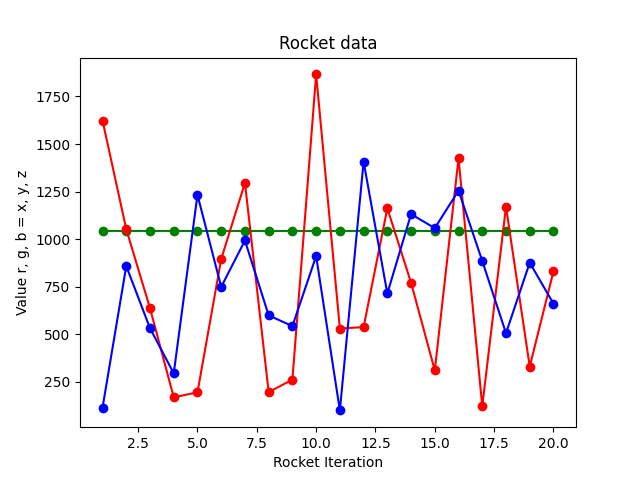
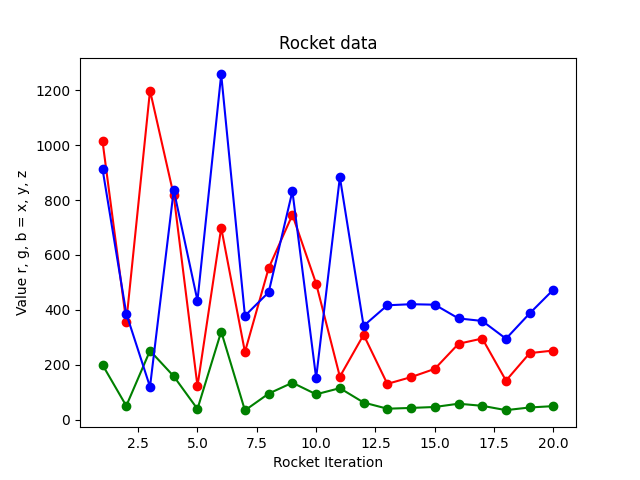
fixed z angle calculation, graphics are slightly misleading. y velocity only accounted for in x velocity graph

diff --git a/rocket_versions/rocketv4/simulation.py b/rocket_versions/rocketv4/simulation.py
@@ -1,10 +1,12 @@
 import pygame
-from physics import all_value_names
+from physics import bounds
+import math
 
 white = (255, 255, 255)
 light_green = (100, 255, 100)
 blue = (100, 100, 255)
 black = (0, 0, 0)
+orange = (252, 115, 3)  # fuel color
 X = 1500
 Y = 1000
 pygame.init()
@@ -12,32 +14,107 @@ display = pygame.display.set_mode((X, Y))
 pygame.display.set_caption('Rocket GUI')
 font = pygame.font.Font('freesansbold.ttf', 32)
 clock = pygame.time.Clock()
-CLOCK_SPEED = 60  # frames per second
+CLOCK_SPEED = 30  # frames per second
 
 x_pixels = set()
 z_pixels = set()
 
 
 def handle_display(state, iteration):
+    LINE_LENGTH = 50
+
     display.fill(black)
-    y = 0
-    base_x = 250
-    x_change_per_letter = 8
-    for name in all_value_names:
-        new_x = base_x - x_change_per_letter * len(name)
-        text_str = name + ":" + str(round(state[name], 3))
-        text = font.render(text_str, True, white, black)
-        text_rect = text.get_rect()
-        y += 40
-        text_rect.center = (new_x, y)
-        display.blit(text, text_rect)
 
     # iteration
     iteration_str = 'Iteration: ' + str(iteration)
     iteration_text = font.render(iteration_str, True, white, black)
     iteration_text_rect = iteration_text.get_rect()
-    iteration_text_rect.center = (180, 40*(len(all_value_names)+1))
+    iteration_text_rect.center = (100, LINE_LENGTH)
     display.blit(iteration_text, iteration_text_rect)
+
+    # velocity in x:
+    vel_x_text = font.render('x velocity:', True, white, black)
+    vel_x_text_rect = vel_x_text.get_rect()
+    vel_x_text_rect.center = (300, LINE_LENGTH)
+    display.blit(vel_x_text, vel_x_text_rect)
+    vel_center = (450, LINE_LENGTH)
+    vel_line_length = abs(state['velocity']/bounds['max_velocity']) * LINE_LENGTH
+    angle = state['x_direction'] * 2 * math.pi
+    vel_x_component = -1*vel_line_length * math.cos(angle) + vel_center[0]
+    vel_y_component = -1*vel_line_length * math.sin(angle) + vel_center[1]
+    vel_end = (vel_x_component, vel_y_component)
+    pygame.draw.circle(display, white, vel_center, LINE_LENGTH, width=1)
+    pygame.draw.line(display, white, vel_center, vel_end)
+
+    # velocity in z:
+    vel_z_text = font.render('z velocity:', True, white, black)
+    vel_z_text_rect = vel_z_text.get_rect()
+    vel_z_text_rect.center = (670, LINE_LENGTH)
+    display.blit(vel_z_text, vel_z_text_rect)
+    vel_center = (820, LINE_LENGTH)
+    angle = state['z_direction'] * 2 * math.pi
+    vel_x_component = -1 * vel_line_length * math.cos(angle) + vel_center[0]
+    vel_y_component = -1 * vel_line_length * math.sin(angle) + vel_center[1]
+    vel_end = (vel_x_component, vel_y_component)
+    pygame.draw.circle(display, white, vel_center, LINE_LENGTH, width=1)
+    pygame.draw.line(display, white, vel_center, vel_end)
+
+    # acceleration in x:
+    acc_x_text = font.render('x acceleration:', True, white, black)
+    acc_x_text_rect = acc_x_text.get_rect()
+    acc_x_text_rect.center = (270, 4*LINE_LENGTH)
+    display.blit(acc_x_text, acc_x_text_rect)
+    acc_center = (450, 4*LINE_LENGTH)
+    acc_line_length = abs(state['acceleration']/bounds['max_acceleration']) * LINE_LENGTH
+    angle = state['x_tilt'] * 2 * math.pi
+    acc_x_component = -1 * acc_line_length * math.cos(angle) + acc_center[0]
+    acc_y_component = -1 * acc_line_length * math.sin(angle) + acc_center[1]
+    acc_end = (acc_x_component, acc_y_component)
+    pygame.draw.circle(display, white, acc_center, LINE_LENGTH, width=1)
+    pygame.draw.line(display, white, acc_center, acc_end)
+
+    # acceleration in z:
+    acc_z_text = font.render('z acceleration:', True, white, black)
+    acc_z_text_rect = acc_z_text.get_rect()
+    acc_z_text_rect.center = (640, 4*LINE_LENGTH)
+    display.blit(acc_z_text, acc_z_text_rect)
+    acc_center = (820, 4*LINE_LENGTH)
+    angle = state['z_tilt'] * 2 * math.pi
+    acc_x_component = -1 * acc_line_length * math.cos(angle) + acc_center[0]
+    acc_y_component = -1 * acc_line_length * math.sin(angle) + acc_center[1]
+    acc_end = (acc_x_component, acc_y_component)
+    pygame.draw.circle(display, white, acc_center, LINE_LENGTH, width=1)
+    pygame.draw.line(display, white, acc_center, acc_end)
+
+    # wind
+    wind_text = font.render('wind:', True, white, black)
+    wind_text_rect = wind_text.get_rect()
+    wind_text_rect.center = (1000, LINE_LENGTH)
+    display.blit(wind_text, wind_text_rect)
+    wind_center = (1100, LINE_LENGTH)
+    wind_line_length = abs(state['wind']) * LINE_LENGTH
+    angle = state['wind_direction'] * 2 * math.pi
+    wind_x_component = -1 * wind_line_length * math.cos(angle) + wind_center[0]
+    wind_y_component = -1 * wind_line_length * math.sin(angle) + wind_center[1]
+    wind_end = (wind_x_component, wind_y_component)
+    pygame.draw.circle(display, white, wind_center, LINE_LENGTH, width=1)
+    pygame.draw.line(display, white, wind_center, wind_end)
+
+    # fuel
+    fuel_text = font.render('fuel:', True, white, black)
+    fuel_text_rect = fuel_text.get_rect()
+    fuel_text_rect.center = (1000, 4*LINE_LENGTH)
+    display.blit(fuel_text, fuel_text_rect)
+    fuel_center = (1100, 3*LINE_LENGTH)
+    fuel_size = (LINE_LENGTH/2, LINE_LENGTH*2)
+    fuel_ratio = state['fuel']/bounds['max_fuel']
+    fuel_height = int(2*LINE_LENGTH * fuel_ratio)
+    actual_size = (LINE_LENGTH/2, fuel_height)
+    outline_rect = pygame.Rect(fuel_center[0], fuel_center[1], fuel_size[0], fuel_size[1])
+    starting_y = fuel_center[1] + (1 - fuel_ratio) * fuel_size[1]
+    actual_rect = pygame.Rect(fuel_center[0], starting_y, actual_size[0], actual_size[1])
+    pygame.draw.rect(display, white, outline_rect, width=1)
+    pygame.draw.rect(display, orange, actual_rect)
 
     for pixel in x_pixels:
         display.set_at(pixel, light_green)
@@ -77,9 +154,9 @@ def launch(rocket, iteration):
 def add_pixels(state):
     global x_pixels, z_pixels
 
-    x = int((X/2)) - int(state['x'] / 20)  # X/2 to get the first half of the screen
-    z = X - int(state['z'] / 20)   # not dividing to get 2nd half of the screen
-    y = Y - int(state['y'])  # this is / by nothing because y is very low
+    x = int((X/2)) - int(state['x'] / 100)  # X/2 to get the first half of the screen
+    z = X - int(state['z'] / 100)   # not dividing to get 2nd half of the screen
+    y = Y - int(state['y'] / 5)
     x_pixels.add((x, y))
     z_pixels.add((z, y))
 

diff --git a/rocket_versions/rocketv4/physics.py b/rocket_versions/rocketv4/physics.py
@@ -7,8 +7,8 @@ from perlin_noise import PerlinNoiseFactory
 # if we want meters per second we must define that 1 frame is 1 second
 FORCE_FROM_THRUST = 800  # how much the acceleration increases from thrust, measured in N
 THRUST_PER_UNIT_FUEL = 1  # how much thrust from 1 unit of fuel
-TILT_RATIO = 0  # how much the rocket tilts in frame
-FORCE_FROM_WIND = 1  # multiplied by wind (value from 0-100), measured in N
+TILT_RATIO = 0.5  # how much the rocket tilts in frame
+FORCE_FROM_WIND = 100  # multiplied by wind (value from 0-1), measured in N
 MASS = 20  # kg
 ACCELERATION_FROM_GRAVITY = -9.8
 FORCE_FROM_GRAVITY = MASS * ACCELERATION_FROM_GRAVITY  # currently -196N
@@ -19,18 +19,20 @@ CROSS_SECTIONAL_AREA = math.pi * RADIUS**2  # this is measured in meters
 AIR_DENSITY = 1.225  # kg/m^3
 
 # -------------------------------classification-------------------------------
-# current max velocity is 136m/s
+# terminal velocity moving straight down is:
+# math.sqrt((-2*FORCE_FROM_GRAVITY) / (AIR_DENSITY*CROSS_SECTIONAL_AREA*DRAG_COEFFICIENT))
+# which is a positive number. if the rocket is moving downwards, its max velocity_y cannot exceed this
 bounds = {'max_acceleration': 100,  # this is also used for preprocessing
-          'max_velocity': math.sqrt((-2*FORCE_FROM_GRAVITY) / (AIR_DENSITY*CROSS_SECTIONAL_AREA*DRAG_COEFFICIENT)),
+          'max_velocity': 300,
           'max_y': 10000,
           'min_y': 0,
           'max_fuel': 10,
           'max_time': 100,
-          'max_x': 10000,
+          'max_x': 100000,
           'min_x': 0,
-          'max_z': 10000,
+          'max_z': 100000,
           'min_z': 0,
-          'max_wind': 100,
+          'max_wind': FORCE_FROM_WIND,
           'min_wind': 0}
 
 all_value_names = ['acceleration', 'velocity', 'y', 'fuel', 'time', 'x', 'x_tilt', 'x_direction', 'z', 'z_tilt',
@@ -47,17 +49,26 @@ angles = ['x_tilt', 'x_direction', 'z_tilt', 'z_direction', 'wind_direction']
 # -------------------------------environment constants-------------------------------
 wind_mags = []
 wind_angles = []
+rt2 = math.sqrt(2)
 
 
 def init_env():
     # i might want to transform the curves to better fit a realistic environment
     global wind_mags, wind_angles
-    mags_noise_generator = PerlinNoiseFactory(1, octaves=2, unbias=True)
-    angle_noise_generator = PerlinNoiseFactory(1, octaves=3, unbias=True)
-    div = 10
+    x_noise_generator = PerlinNoiseFactory(1, octaves=2, unbias=True)
+    z_noise_generator = PerlinNoiseFactory(1, octaves=3, unbias=True)
+    div = 100
     # 50* instead of 100/2*
-    wind_mags = [50*(mags_noise_generator(i/div)+1) for i in range(bounds['max_time'])]
-    wind_angles = [(angle_noise_generator(i/div)+1)/2 for i in range(bounds['max_time'])]
+    wind_x = [(x_noise_generator(i/div))/rt2 for i in range(bounds['max_time'])]
+    wind_z = [(z_noise_generator(i/div))/rt2 for i in range(bounds['max_time'])]
+    wind_mags = []
+    wind_angles = []
+    for i in range(len(wind_x)):
+        magnitude = math.sqrt(wind_x[i]**2 + wind_z[i]**2)
+        angle = math.atan2(wind_z[i], wind_x[i]) / (2*math.pi)
+        angle %= 1
+        wind_mags.append(magnitude)
+        wind_angles.append(angle)
 
 
 def apply_physics(state, actions):
@@ -99,8 +110,8 @@ def apply_physics(state, actions):
     force_x_component = force_xy_projection * math.cos(force_angle_x_projection)
 
     # calculating wind components
-    wind_z_component = math.cos(wind_angle)
-    wind_x_component = math.sin(wind_angle)
+    wind_z_component = math.sin(wind_angle)
+    wind_x_component = math.cos(wind_angle)
     wind_z = FORCE_FROM_WIND * state['wind'] * wind_z_component
     wind_x = FORCE_FROM_WIND * state['wind'] * wind_x_component
 
@@ -121,7 +132,6 @@ def apply_physics(state, actions):
 
     # calculating and storing new magnitude
     cur_acceleration = math.sqrt((acceleration_x ** 2 + acceleration_y ** 2 + acceleration_z ** 2))
-    cur_acceleration *= np.sign(acceleration_y)
     cur_acceleration = round(cur_acceleration, 10)
     state['acceleration'] = cur_acceleration
 
@@ -150,17 +160,21 @@ def apply_physics(state, actions):
 
     # calculating and storing new velocity magnitude
     cur_velocity = math.sqrt((velocity_x ** 2 + velocity_y ** 2 + velocity_z ** 2))
-    cur_velocity *= np.sign(velocity_y)
     cur_velocity = round(cur_velocity, 10)
     state['velocity'] = cur_velocity
 
     # finding x and z angles
+    print('x:', velocity_x)
+    print('y:', velocity_y)
+    print('z:', velocity_z)
     vel_angle_x = math.atan2(velocity_y, velocity_x) / (2 * math.pi)
     xy_projection_magnitude = math.sqrt(velocity_y ** 2 + velocity_x ** 2)
-    xy_projection_magnitude *= np.sign(velocity_y)
     vel_angle_z = math.atan2(xy_projection_magnitude, velocity_z) / (2 * math.pi)
     state['x_direction'] = vel_angle_x
     state['z_direction'] = vel_angle_z
+    print('r:', xy_projection_magnitude)
+    print('angle x:', str(vel_angle_x * math.pi * 2))
+    print('angle z:', str(vel_angle_z * math.pi * 2))
 
     state['time'] += 1
 

diff --git a/rocket_versions/rocketv4/rocket.py b/rocket_versions/rocketv4/rocket.py
@@ -27,6 +27,9 @@ overall_training_data = set()
 
 LOADING_MODEL = False
 SAVING_MODEL = True
+TRAINING_METHOD = 1
+# method 1: set training_data to false if the rocket is moving away from the vertical origin
+# method 2: set training_data to true if the rocket it moving towards the vertical origin
 
 # -------------------------------model architecture-------------------------------
 INPUT_SIZE = len(all_value_names) + 1  # +1 to account for has_left_ground
@@ -113,11 +116,17 @@ class Rocket:
         # 2: if the x-distance from the middle value is decreasing, set use_data to True
         cur_x = abs(self.state['x'] - (0.5 * bounds['max_x']))
         cur_z = abs(self.state['z'] - (0.5 * bounds['max_z']))
-        if cur_x <= previous_x:
-            # method 2
-            use_data = True
-        if cur_z <= previous_z:
-            use_data = True
+        if TRAINING_METHOD == 1:
+            if cur_x > previous_x:
+                use_data = False
+            if cur_z > previous_z:
+                use_data = False
+        else:
+            if cur_x <= previous_x:
+                # method 2
+                use_data = True
+            if cur_z <= previous_z:
+                use_data = True
         previous_x = cur_x
         previous_z = cur_z
 
